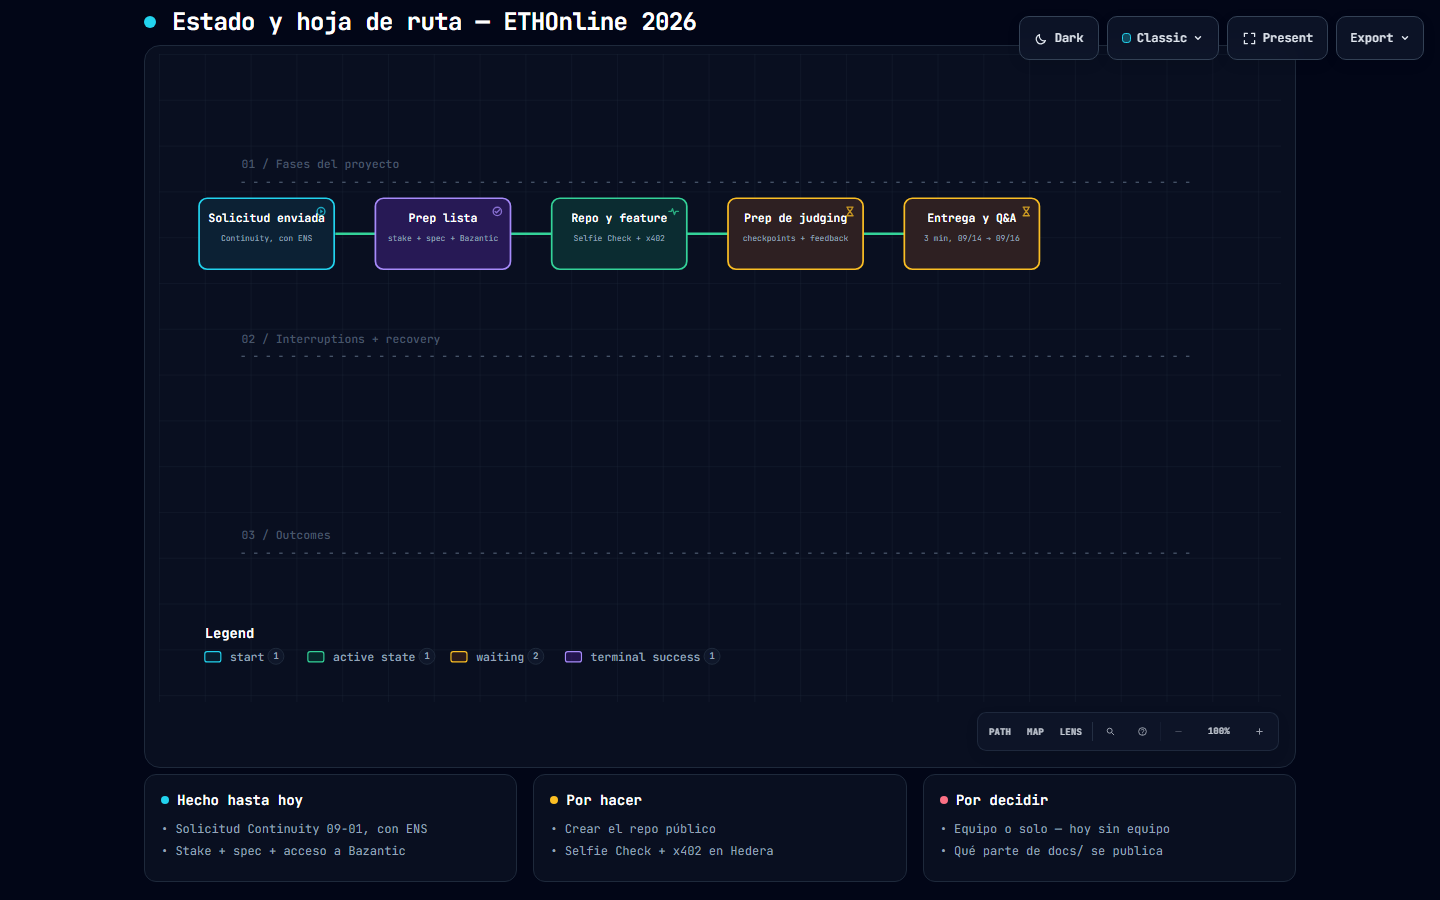
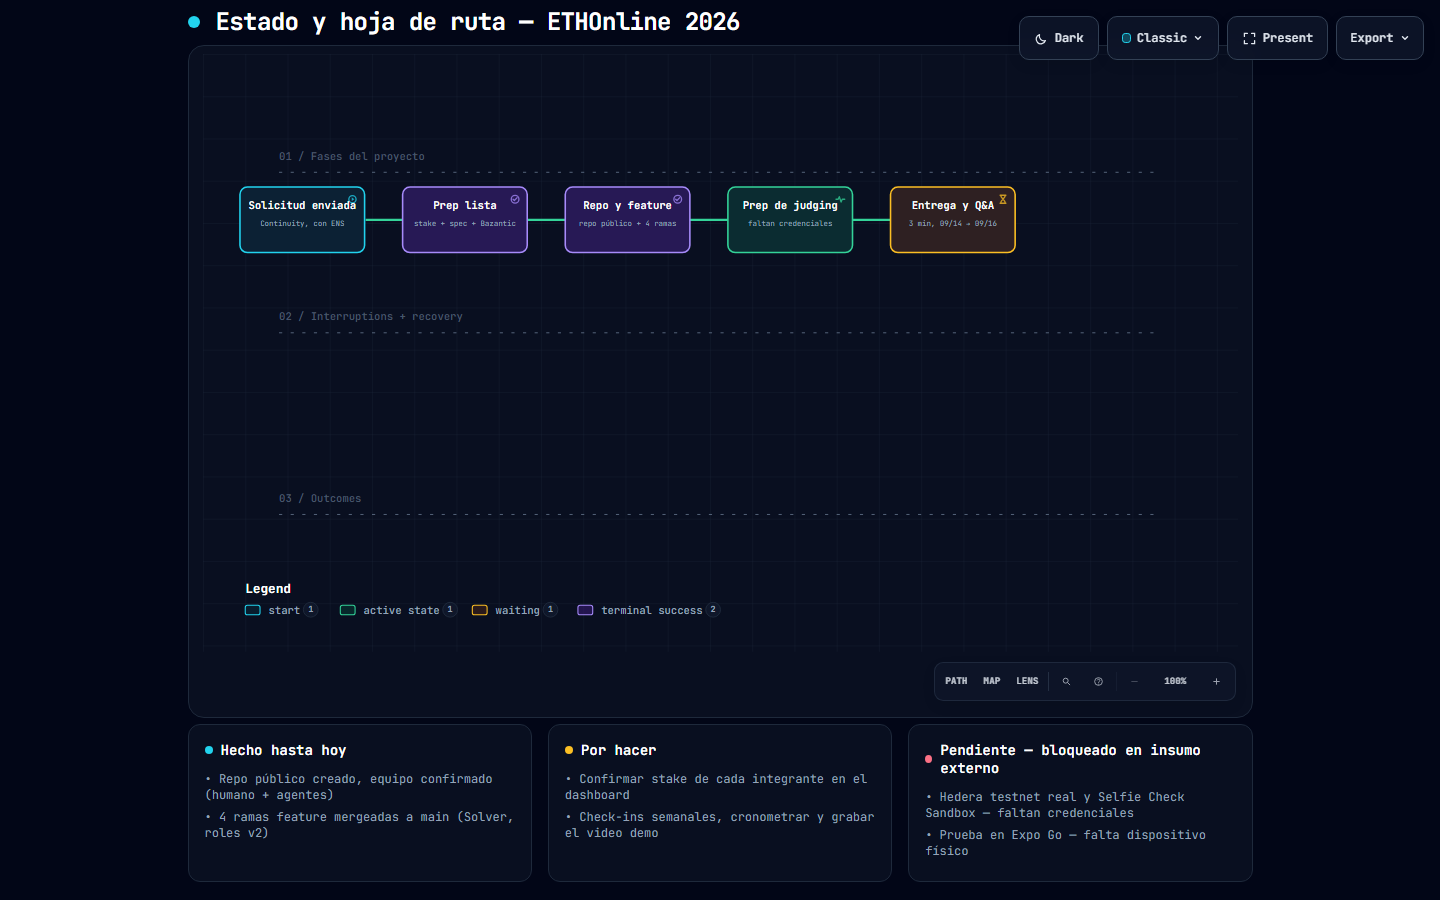
docs: regenerate status map to reflect current repo state

diff --git a/docs/estado.html b/docs/estado.html
@@ -5072,30 +5072,31 @@
         <text data-detail="fine" x="248" y="177" class="t-database" font-size="7" text-anchor="middle">hecho</text>
         </g>
 
-        <g id="node-build" data-node-id="build" data-node-label="Repo y feature" tabindex="0" role="button" aria-label="Focus Repo y feature, Selfie Check + x402, Fases del proyecto" aria-pressed="false" data-node-kind="active" data-node-sublabel="Selfie Check + x402" data-node-tag="en curso" data-node-context="Fases del proyecto">
-          <title>Repo y feature · Selfie Check + x402 · Fases del proyecto · en curso</title>
+        <g id="node-build" data-node-id="build" data-node-label="Repo y feature" tabindex="0" role="button" aria-label="Focus Repo y feature, repo público + 4 ramas, Fases del proyecto" aria-pressed="false" data-node-kind="success" data-node-sublabel="repo público + 4 ramas" data-node-tag="hecho" data-node-context="Fases del proyecto">
+          <title>Repo y feature · repo público + 4 ramas · Fases del proyecto · hecho</title>
           <rect x="343" y="126" width="118" height="62" rx="7" class="c-mask"/>
-          <rect x="343" y="126" width="118" height="62" rx="7" class="c-backend" stroke-width="1.5"/>
-          <g aria-hidden="true" data-semantic-sigil="active" class="semantic-sigil s-backend" transform="translate(444 132) scale(0.6875)">
-            <path d="M2 8h3l1.5-3.5L9 12l1.6-4H14"/>
+          <rect x="343" y="126" width="118" height="62" rx="7" class="c-database" stroke-width="1.5"/>
+          <g aria-hidden="true" data-semantic-sigil="success" class="semantic-sigil s-database" transform="translate(444 132) scale(0.6875)">
+            <circle cx="8" cy="8" r="5.3"/>
+            <path d="m5.2 8 1.8 1.8 3.8-4"/>
           </g>
-        <text data-detail="fine" x="353" y="140" class="t-backend" font-size="7" font-weight="700">03</text>
+        <text data-detail="fine" x="353" y="140" class="t-database" font-size="7" font-weight="700">03</text>
           <text data-node-label="" data-detail-anchor="" x="402" y="147" class="t-primary" font-size="10" font-weight="600" text-anchor="middle">Repo y feature</text>
-          <text data-detail="context" x="402" y="163" class="t-muted" font-size="7" text-anchor="middle">Selfie Check + x402</text>
-        <text data-detail="fine" x="402" y="177" class="t-backend" font-size="7" text-anchor="middle">en curso</text>
+          <text data-detail="context" x="402" y="163" class="t-muted" font-size="7" text-anchor="middle">repo público + 4 ramas</text>
+        <text data-detail="fine" x="402" y="177" class="t-database" font-size="7" text-anchor="middle">hecho</text>
         </g>
 
-        <g id="node-judging_prep" data-node-id="judging_prep" data-node-label="Prep de judging" tabindex="0" role="button" aria-label="Focus Prep de judging, checkpoints + feedback, Fases del proyecto" aria-pressed="false" data-node-kind="waiting" data-node-sublabel="checkpoints + feedback" data-node-tag="pendiente" data-node-context="Fases del proyecto">
-          <title>Prep de judging · checkpoints + feedback · Fases del proyecto · pendiente</title>
+        <g id="node-judging_prep" data-node-id="judging_prep" data-node-label="Prep de judging" tabindex="0" role="button" aria-label="Focus Prep de judging, faltan credenciales, Fases del proyecto" aria-pressed="false" data-node-kind="active" data-node-sublabel="faltan credenciales" data-node-tag="en curso" data-node-context="Fases del proyecto">
+          <title>Prep de judging · faltan credenciales · Fases del proyecto · en curso</title>
           <rect x="497" y="126" width="118" height="62" rx="7" class="c-mask"/>
-          <rect x="497" y="126" width="118" height="62" rx="7" class="c-cloud" stroke-width="1.5"/>
-          <g aria-hidden="true" data-semantic-sigil="waiting" class="semantic-sigil s-cloud" transform="translate(598 132) scale(0.6875)">
-            <path d="M4 2.5h8M4 13.5h8M5 3c0 2.8 2 3.2 3 5-1 1.8-3 2.2-3 5M11 3c0 2.8-2 3.2-3 5 1 1.8 3 2.2 3 5"/>
+          <rect x="497" y="126" width="118" height="62" rx="7" class="c-backend" stroke-width="1.5"/>
+          <g aria-hidden="true" data-semantic-sigil="active" class="semantic-sigil s-backend" transform="translate(598 132) scale(0.6875)">
+            <path d="M2 8h3l1.5-3.5L9 12l1.6-4H14"/>
           </g>
-        <text data-detail="fine" x="507" y="140" class="t-cloud" font-size="7" font-weight="700">04</text>
+        <text data-detail="fine" x="507" y="140" class="t-backend" font-size="7" font-weight="700">04</text>
           <text data-node-label="" data-detail-anchor="" x="556" y="147" class="t-primary" font-size="10" font-weight="600" text-anchor="middle">Prep de judging</text>
-          <text data-detail="context" x="556" y="163" class="t-muted" font-size="7" text-anchor="middle">checkpoints + feedback</text>
-        <text data-detail="fine" x="556" y="177" class="t-cloud" font-size="7" text-anchor="middle">pendiente</text>
+          <text data-detail="context" x="556" y="163" class="t-muted" font-size="7" text-anchor="middle">faltan credenciales</text>
+        <text data-detail="fine" x="556" y="177" class="t-backend" font-size="7" text-anchor="middle">en curso</text>
         </g>
 
         <g id="node-submission" data-node-id="submission" data-node-label="Entrega y Q&amp;A" tabindex="0" role="button" aria-label="Focus Entrega y Q&amp;A, 3 min, 09/14 → 09/16, Fases del proyecto" aria-pressed="false" data-node-kind="waiting" data-node-sublabel="3 min, 09/14 → 09/16" data-node-tag="pendiente" data-node-context="Fases del proyecto">
@@ -5326,8 +5327,8 @@
           <h3>Hecho hasta hoy</h3>
         </div>
         <ul>
-          <li>&bull; Solicitud Continuity 09-01, con ENS</li>
-          <li>&bull; Stake + spec + acceso a Bazantic</li>
+          <li>&bull; Repo público creado, equipo confirmado (humano + agentes)</li>
+          <li>&bull; 4 ramas feature mergeadas a main (Solver, roles v2)</li>
         </ul>
       </div>
 
@@ -5337,19 +5338,19 @@
           <h3>Por hacer</h3>
         </div>
         <ul>
-          <li>&bull; Crear el repo público</li>
-          <li>&bull; Selfie Check + x402 en Hedera</li>
+          <li>&bull; Confirmar stake de cada integrante en el dashboard</li>
+          <li>&bull; Check-ins semanales, cronometrar y grabar el video demo</li>
         </ul>
       </div>
 
       <div class="card">
         <div class="card-header">
           <div class="card-dot rose"></div>
-          <h3>Por decidir</h3>
+          <h3>Pendiente — bloqueado en insumo externo</h3>
         </div>
         <ul>
-          <li>&bull; Equipo o solo — hoy sin equipo</li>
-          <li>&bull; Qué parte de docs/ se publica</li>
+          <li>&bull; Hedera testnet real y Selfie Check Sandbox — faltan credenciales</li>
+          <li>&bull; Prueba en Expo Go — falta dispositivo físico</li>
         </ul>
       </div>
     </div>

diff --git a/docs/plan.md b/docs/plan.md
@@ -254,6 +254,12 @@ bloque. Esta tabla es solo el checklist.
   del proyecto (`AGENTS.md` §Idioma).
 - [x] `2026-09-04` — Mapa de estado y hoja de ruta publicado con `archify`:
   [`docs/estado.html`](estado.html) (fuente en [`docs/estado.lifecycle.json`](estado.lifecycle.json)).
+  **Regenerado `2026-09-04`** (worktree `docs-estado-refresh`, rebaseado contra `main` en `c3d8c5e`
+  antes de regenerar): repo público y decisión de equipo marcados como hechos, fase nueva con las
+  4 ramas mergeadas y roles v2, y Hedera live / Selfie Check Sandbox / Expo Go en dispositivo real
+  movidos a "pendiente" — bloqueados en credenciales/hardware externo (el firmador de Hedera ya
+  existe, `gateway/src/hedera-signer.ts`, pero falta que un humano provea las llaves de pago
+  reales), no en trabajo faltante. `archify validate` y `visual-check`: 0 errores.
 - [x] `2026-09-04` — Acceso a Bazantic confirmado. Crédito de prueba ~0.30 USDC por gateway;
   bypass de x402/MPP vía JWT o métodos en $0.00 para desarrollo — ver `brainstorming.md` §8.
 - [x] `2026-09-04` — `engram` wireado para **opencode** (plugin instalado, listo). Wireado para
